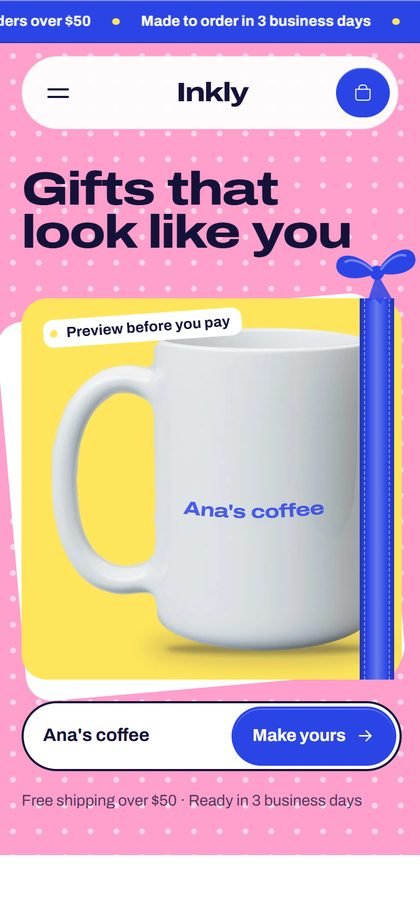
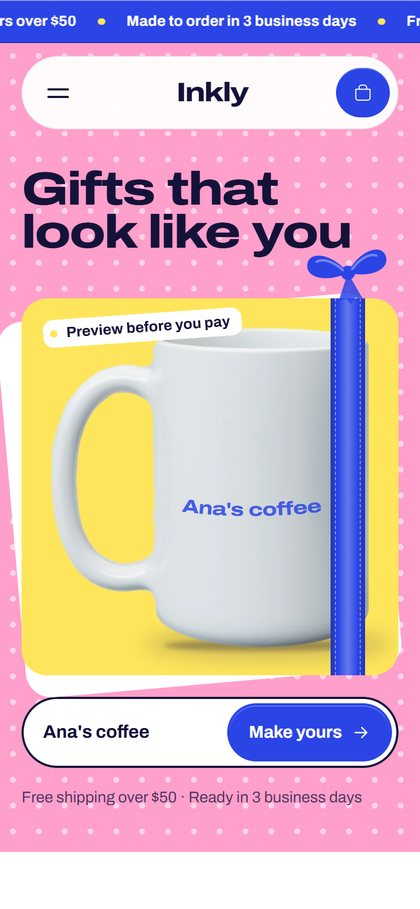
README screenshots and GIFs from the final store: the 2D mockups redrawn, the soft 3D light, the rebuilt t-shirt, the 3D preview recorded on the store's product page instead of the 3D demo, and the speed race against the final store; the alt texts stop describing a light that follows the pointer

diff --git a/README.md b/README.md
@@ -28,13 +28,13 @@ The whole store is wrapping paper. Each part of the home owns one paper (pink po
 
 ## 1. Product personalizer with live preview
 
-![Personalizing a mug: the name typed on the home page arrives in the personalizer, the preview turns 3D, then font, color and position change and the item goes to the cart](docs/demo-personalizer-to-cart.gif)
+![Personalizing a mug in 3D: font, color and position change and the print follows](docs/demo-personalizer-to-cart.gif)
 
 ![Product page on desktop](docs/01-product-desktop.jpg)
 
 <img src="docs/03-product-mobile.jpg" alt="Product page on mobile" width="260"> <img src="docs/04-product-photo-quality.jpg" alt="Low-resolution photo warning" width="560">
 
-<img src="docs/demo-3d-preview.gif" alt="3D preview: the mug turns, the light follows the pointer and the print changes as the text is typed" width="560"> <img src="docs/13-product-3d-mobile.jpg" alt="3D preview on mobile" width="260">
+<img src="docs/demo-3d-preview.gif" alt="3D preview on the product page: the mug turns with a drag and the print changes as the name is typed" width="560"> <img src="docs/13-product-3d-mobile.jpg" alt="3D preview on mobile" width="260">
 
 The customer types a line of text, picks a font, a color and a position, uploads a photo, drags and zooms it, and watches the mockup update as they go. On mobile the preview stays pinned to the top while they fill in the form.
 
@@ -97,7 +97,7 @@ Theme Check: 4 errors and 8 warnings in the slow version (`ParserBlockingScript`
 
 ### Measured numbers
 
-![The slow version and the redesign loading side by side on the same emulated phone](docs/demo-speed.gif)
+![The slow version and the final store loading side by side on the same emulated phone](docs/demo-speed.gif)
 
 Lighthouse 13.5.0 with its default mobile emulation and its desktop preset (simulated throttling in both), 5 runs per version, the median of each metric, all on 2026-10-17 against the same store and products. **Chrome runs without a GPU (`--disable-gpu`), like the PageSpeed Insights servers:** on this machine a cold GPU makes the first canvas call in Shopify's perf-kit about 4x slower, and Lighthouse's CPU slowdown turns that into a long task no theme can avoid. PageSpeed Insights itself can't reach the store, a development store behind a password.
 
